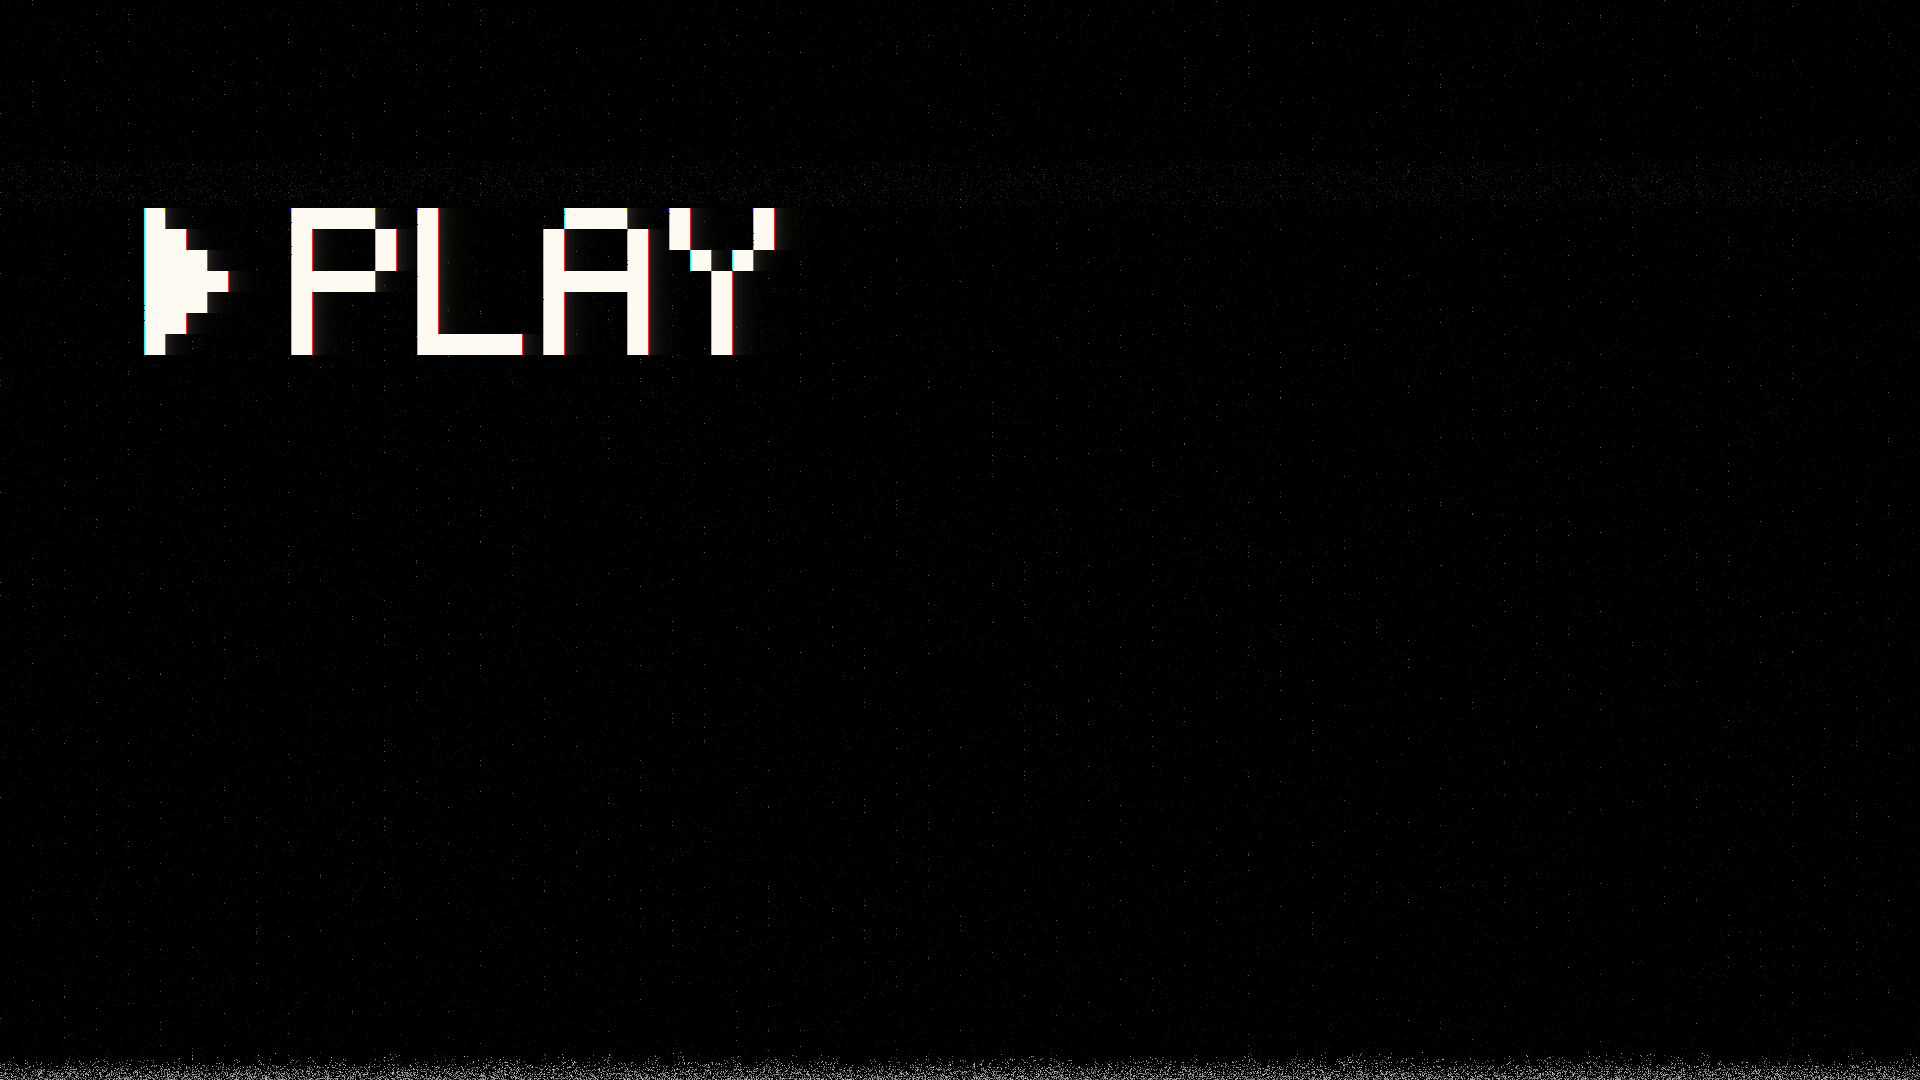
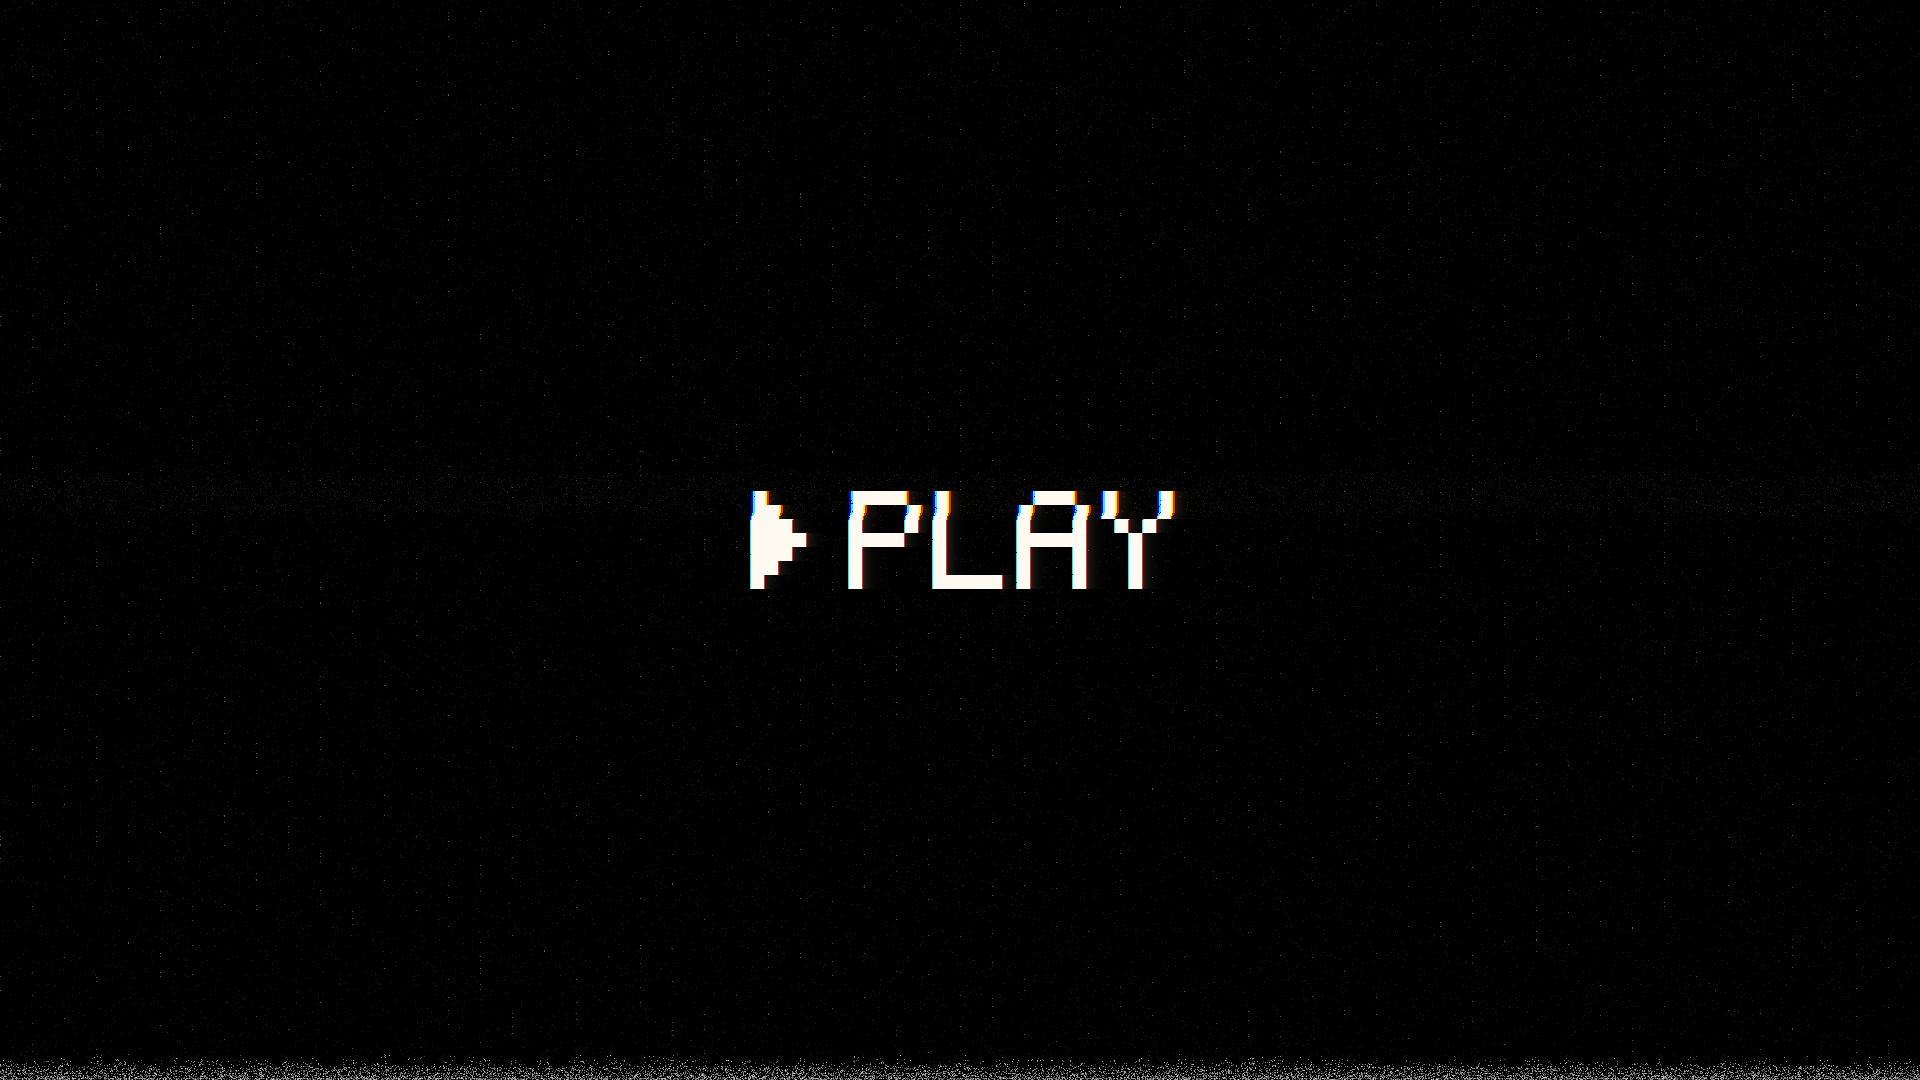
Centre the OSD block and set it smaller
The word and its glyph now sit in the middle of frame instead of the upper
left, at roughly half the cap height (cell size 1.3% of frame height, down
from 1.95%).

One side effect worth noting: at this size no label reaches the 70%-of-width
clamp, so every command in the set shares a single cell size — PLAY and
FAST FORWARD now set the same size type.

Still frames re-picked for the new text bounds; clips and stills re-rendered.

Claude-Session: https://claude.ai/code/session_01FKYKFFV94YFs83UPzs6qkx

Changed region(s): [[0.0625, 0.1833, 0.4062, 0.3361], [0.0, 0.9778, 1.0, 1.0], [0.375, 0.4278, 0.625, 0.55]]

diff --git a/vcr-osd/src/commands.ts b/vcr-osd/src/commands.ts
@@ -30,7 +30,7 @@ export const COMMANDS: VCRCommand[] = [
     label: "PLAY",
     glyph: "play",
     seed: 101,
-    stillFrame: 151,
+    stillFrame: 408,
   },
   {
     id: "VCR-Pause",
@@ -38,7 +38,7 @@ export const COMMANDS: VCRCommand[] = [
     label: "PAUSE",
     glyph: "pause",
     seed: 202,
-    stillFrame: 112,
+    stillFrame: 135,
   },
   {
     id: "VCR-Rewind",
@@ -46,7 +46,7 @@ export const COMMANDS: VCRCommand[] = [
     label: "REWIND",
     glyph: "rewind",
     seed: 303,
-    stillFrame: 4,
+    stillFrame: 263,
   },
   {
     id: "VCR-FastForward",
@@ -54,7 +54,7 @@ export const COMMANDS: VCRCommand[] = [
     label: "FAST FORWARD",
     glyph: "fastForward",
     seed: 404,
-    stillFrame: 408,
+    stillFrame: 4,
   },
   {
     id: "VCR-Record",
@@ -62,7 +62,7 @@ export const COMMANDS: VCRCommand[] = [
     label: "RECORD",
     glyph: "record",
     seed: 505,
-    stillFrame: 432,
+    stillFrame: 450,
   },
   {
     id: "VCR-Stop",
@@ -70,7 +70,7 @@ export const COMMANDS: VCRCommand[] = [
     label: "STOP",
     glyph: "stop",
     seed: 606,
-    stillFrame: 296,
+    stillFrame: 451,
   },
   {
     id: "VCR-Eject",
@@ -78,7 +78,7 @@ export const COMMANDS: VCRCommand[] = [
     label: "EJECT",
     glyph: "eject",
     seed: 707,
-    stillFrame: 436,
+    stillFrame: 457,
   },
   {
     id: "VCR-Tracking",
@@ -86,6 +86,6 @@ export const COMMANDS: VCRCommand[] = [
     label: "TRACKING",
     glyph: "none",
     seed: 808,
-    stillFrame: 547,
+    stillFrame: 52,
   },
 ];

diff --git a/vcr-osd/src/plate.ts b/vcr-osd/src/plate.ts
@@ -16,12 +16,11 @@ import {
   labelWidthInCells,
 } from "./pixel-font";
 
-/** Left edge of the OSD block, as a fraction of frame width. */
-const BLOCK_LEFT = 0.075;
-/** Vertical centre of the OSD block, as a fraction of frame height. */
-const BLOCK_CENTRE_Y = 0.26;
+/** Centre of the OSD block, as a fraction of frame width and height. */
+const BLOCK_CENTRE_X = 0.5;
+const BLOCK_CENTRE_Y = 0.5;
 /** Cell size at full size, as a fraction of frame height. */
-const CELL_FRACTION = 0.0195;
+const CELL_FRACTION = 0.013;
 /** The block never grows past this fraction of frame width. */
 const MAX_BLOCK_WIDTH = 0.7;
 /** Blank cells between the glyph and the first letter. */
@@ -69,8 +68,11 @@ export const buildPlate = ({
     Math.min(idealCell, Math.floor((MAX_BLOCK_WIDTH * dw) / totalCells)),
   );
 
+  const blockWidth = totalCells * cell;
   const blockHeight = FONT_ROWS * cell;
-  const originX = Math.round(BLOCK_LEFT * dw);
+  // Centred on the frame. The phosphor trail spills to the right of this box;
+  // the box itself is what gets centred, so the letterforms sit true.
+  const originX = Math.round(BLOCK_CENTRE_X * dw - blockWidth / 2);
   const originY = Math.round(BLOCK_CENTRE_Y * dh - blockHeight / 2);
 
   const lum = new Uint8Array(dw * dh);

diff --git a/vcr-osd/README.md b/vcr-osd/README.md
@@ -1,7 +1,7 @@
 # Retro VCR On-Screen Display
 
-A template for VCR transport-control overlay plates: chunky bitmap `PLAY`,
-`REWIND`, `FAST FORWARD`… with their transport glyph, over VHS tracking
+A template for VCR transport-control overlay plates: small centred bitmap
+`PLAY`, `REWIND`, `FAST FORWARD`… with their transport glyph, over VHS tracking
 distortion on black. One component, one data file, one clip per command.
 
 - **3840×2160, 30fps, 600 frames (20s), seamless loop.**
@@ -92,8 +92,9 @@ composition appears in the Studio, and `scripts/render-all.mjs` picks it up.
 },
 ```
 
-Long labels shrink to fit: the cell size is clamped so the block never exceeds
-70% of frame width, which is why `FAST FORWARD` sets smaller type than `PLAY`.
+The block is centred in frame and every command shares one cell size, so `PLAY`
+and `FAST FORWARD` set the same size type. A label long enough to pass 70% of
+frame width would shrink to fit; at the current size nothing in the set does.
 
 To add a **new glyph**, add a pixel grid to `SHAPES` in `src/glyphs.ts` — seven
 rows of `#` and `.`, any width. To add a **new character**, add a 5×7 grid to
